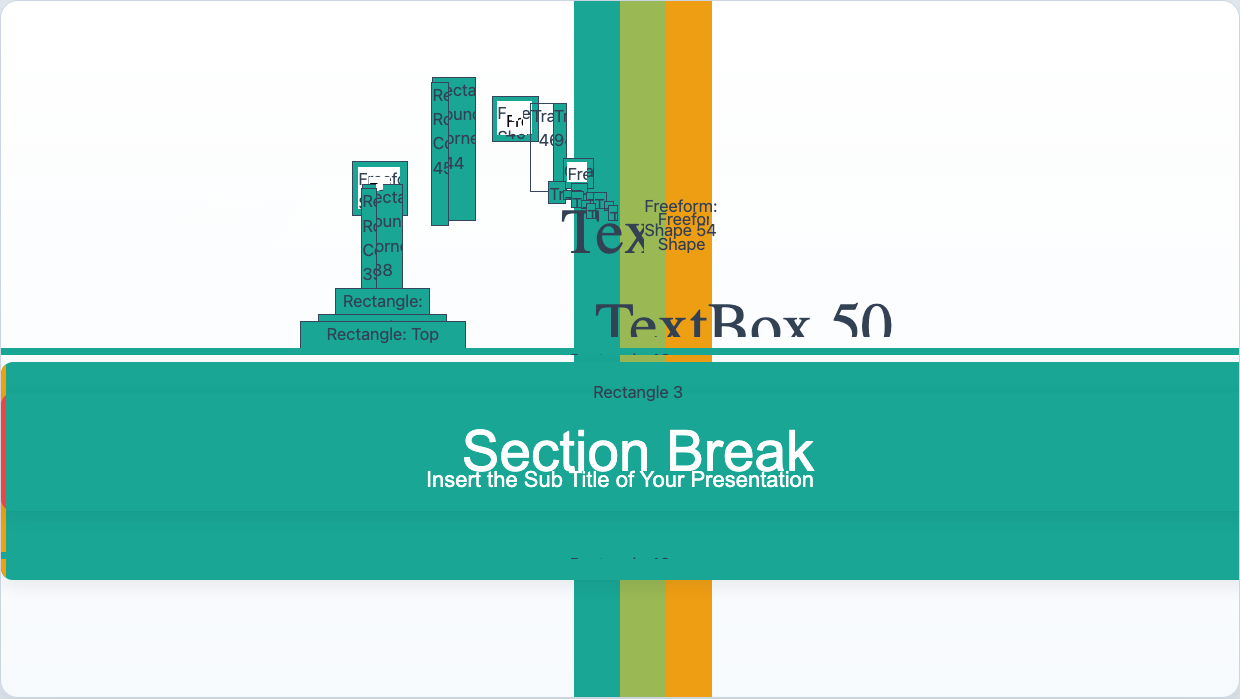
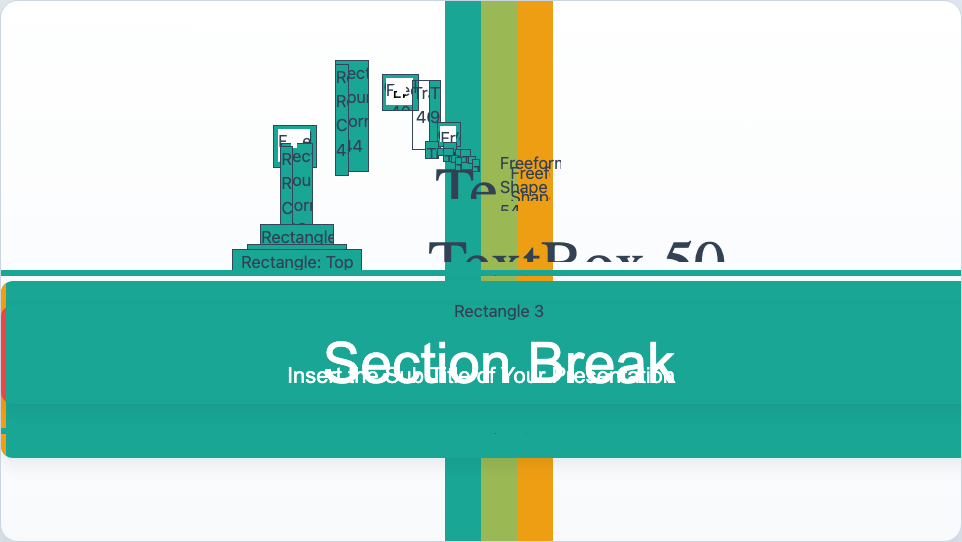
Align PPT sample captures to slide dimensions and surface decorative shapes
The first screenshot harness proved the feedback loop but still produced canvas
sizes that diverged from the paired PNG exports, which made comparisons noisy.
At the same time, the example viewer needed to distinguish decorative grouped
shapes from content cards so extracted background structure could appear without
being mistaken for text-bearing UI. This stage sizes captures to the reference
PNG width and refreshes the sample screenshots after the decorative-shape pass.

Constraint: Screenshot evidence is only useful when capture dimensions closely match the paired reference exports
Constraint: Decorative PPTX shapes must remain visually present without inheriting content-card styling
Rejected: Keep oversized screenshot captures and compare them anyway | dimension mismatch would hide real fidelity progress
Rejected: Style every grouped shape as a content card | decorative geometry would pollute the slide composition
Confidence: medium
Scope-risk: narrow
Reversibility: clean
Directive: Keep screenshot capture dimensions locked to the reference exports before judging future visual diffs
Tested: npm run build --workspace @ooxml/example-basic; npm run typecheck; npm run lint; npm run quality:ppt-sample-screenshots; git diff --check
Not-tested: End-to-end visual scoring for every slide in the sample corpus

Changed region(s): [[0.0, 0.0886, 1.0, 0.8561], [0.0, 0.797, 0.4678, 0.8561], [0.0, 0.7085, 0.0312, 0.738]]

diff --git a/examples/basic/src/main.ts b/examples/basic/src/main.ts
@@ -283,6 +283,12 @@ app.innerHTML = `
         display: block;
       }
 
+      .preview-shell .ooxml-pptx-shape.is-decorative {
+        box-shadow: none;
+        padding: 0;
+        overflow: hidden;
+      }
+
       .preview-shell .ooxml-pptx-shape p,
       .preview-shell .ooxml-pptx-notes,
       .preview-shell .ooxml-pptx-comments,
@@ -547,7 +553,7 @@ function enhancePresentationPreview(): void {
     const name = shape.querySelector('h3')?.textContent?.trim() ?? '';
     const body = shape.querySelector('p')?.textContent?.trim() ?? '';
     const mediaType = shape.dataset.mediaType;
-    const text = body || name || (mediaType === 'embeddedObject' ? '[embedded object]' : mediaType === 'image' ? '[image]' : '');
+    const text = body || (mediaType === 'embeddedObject' ? '[embedded object]' : mediaType === 'image' ? '[image]' : '');
     shape.innerHTML = `<div class="ooxml-pptx-shape-content">${escapeHtmlText(text)}</div>`;
 
     const x = Number(shape.dataset.x ?? 0);
@@ -563,10 +569,12 @@ function enhancePresentationPreview(): void {
     const fontFamily = shape.dataset.fontFamily;
     const textAlign = shape.dataset.textAlign;
 
-    shape.classList.remove('kind-title', 'kind-subtitle', 'kind-footer', 'kind-body', 'is-card', 'is-heading', 'is-media', 'is-image-frame');
+    shape.classList.remove('kind-title', 'kind-subtitle', 'kind-footer', 'kind-body', 'is-card', 'is-heading', 'is-media', 'is-image-frame', 'is-decorative');
     shape.style.removeProperty('--accent');
     shape.style.background = 'transparent';
     shape.style.border = 'none';
+    shape.style.borderRadius = '0';
+    shape.style.boxShadow = 'none';
 
     if (width > 0 && height > 0) {
       shape.style.left = `${(x / cx) * 100}%`;
@@ -586,6 +594,11 @@ function enhancePresentationPreview(): void {
     if (lineColor) {
       shape.style.border = `${Math.max(1, Math.round(lineWidth / 12700))}px solid ${lineColor}`;
     }
+    if (shape.dataset.shapeType === 'ellipse') {
+      shape.style.borderRadius = '999px';
+    } else if (name.toLowerCase().includes('rounded')) {
+      shape.style.borderRadius = '18px';
+    }
 
     if (mediaType) {
       const mediaUri = shape.dataset.mediaUri;
@@ -601,6 +614,14 @@ function enhancePresentationPreview(): void {
     }
 
     const content = shape.querySelector('.ooxml-pptx-shape-content') as HTMLElement | null;
+    if (!text) {
+      shape.classList.add('is-decorative');
+      if (content) {
+        content.remove();
+      }
+      continue;
+    }
+
     if (content) {
       content.style.color = textColor || '';
       content.style.fontFamily = fontFamily || '';
